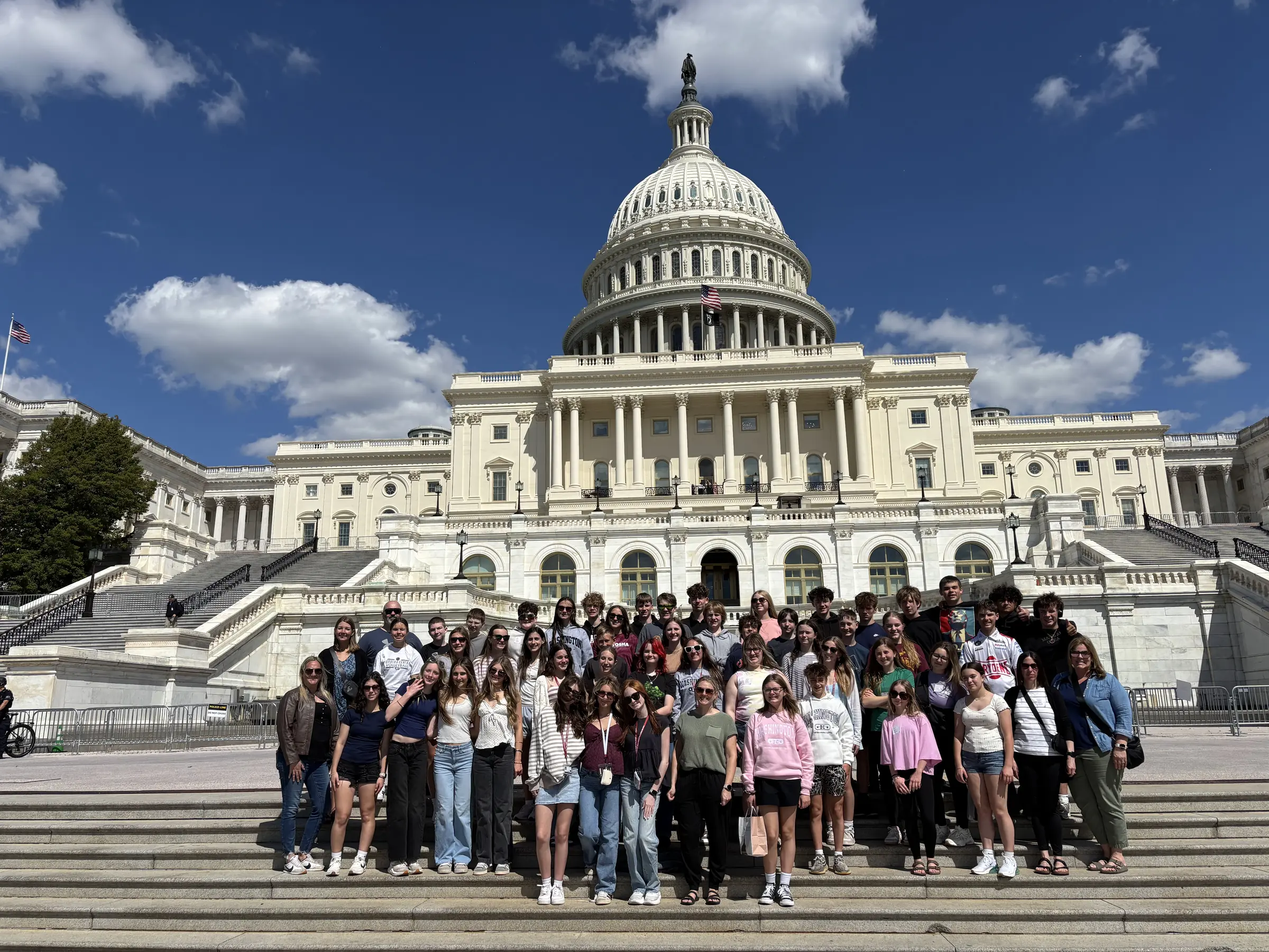
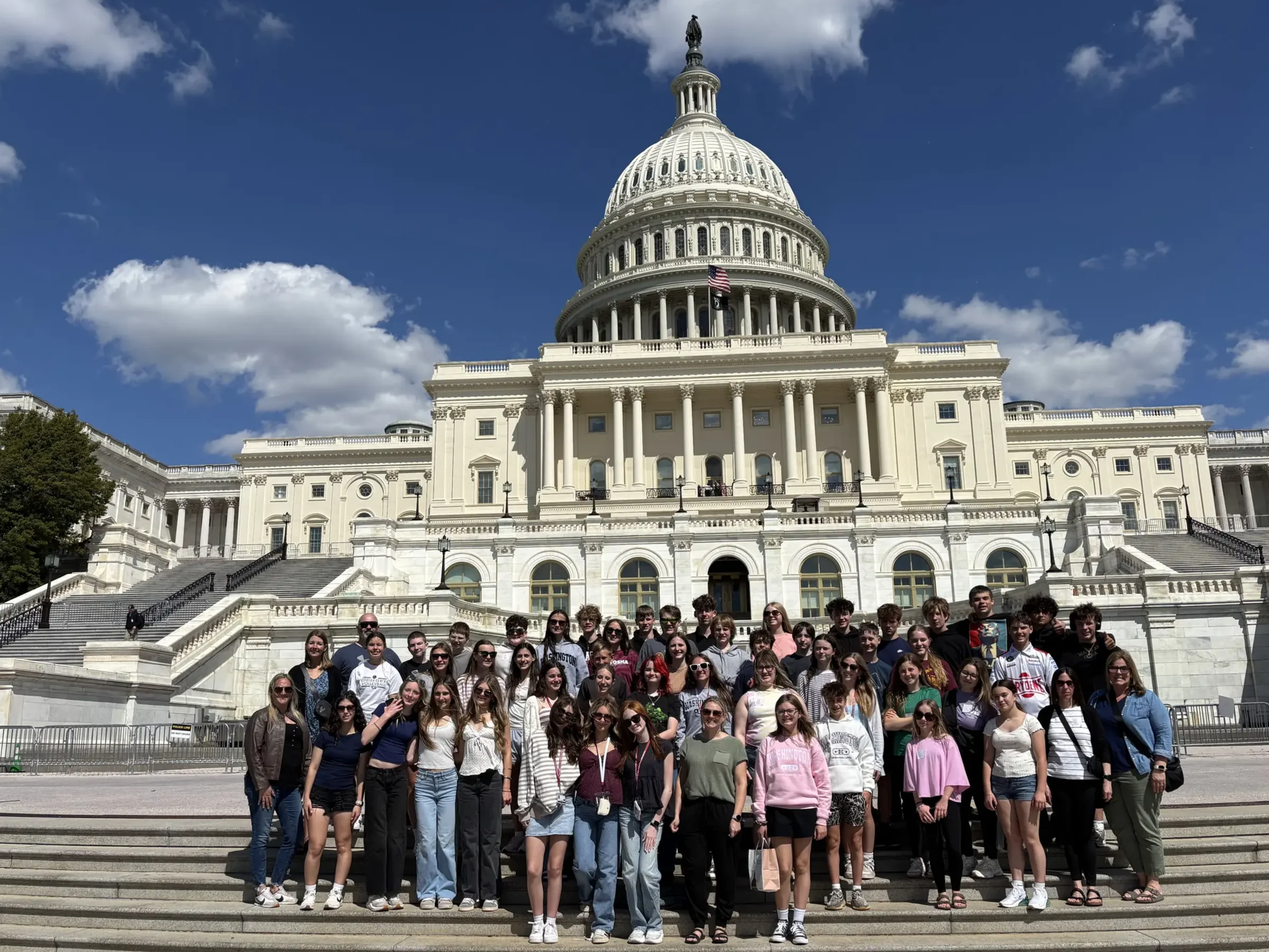
Fix buried mobile close button, oversized hero headline, bowed hero photos
Mobile menu had no way to close. The X was there all along -- rendered,
correctly shaped, dark brown -- but buried: .ileh-mobile is a SIBLING of
.ileh-bar inside <header>, so within that stacking context the fixed panel
(z-index 990, positioned) painted over the bar, which had no position or
z-index of its own. The wrap's z-index:1000 only ranks the header against the
page, not against its own children. The logo vanished too, for a different
reason -- it is inverted to pure white for the dark hero, and the menu backdrop
is cream.

Hero headline: the copy column is capped at 640px while the type rendered at
76px, so 'Educational Travel, Customized for You.' wrapped to FOUR lines and
stood 316px tall, crowding the header on short laptop windows. Capping the
type at 64px gives two lines at 133px and lifts header clearance from 61px to
136-152px, uniform across all three slides. Chose the type lever over widening
the column because widening pushes the amber text onto the bright side of the
photo -- what the existing comment there warns about.

Hero photos were not tilted, they were panorama/wide-angle distorted: the
Capitol balustrade bowed up through the centre, the Colosseum verticals
splayed. Rotation cannot fix a curve, so both got barrel correction (0.018 /
0.016) plus an 8% centre crop to drop the edge smear the correction leaves.
The NYC slide is a normal 4:3 frame whose upward convergence is natural for
[…]

diff --git a/app/globals.css b/app/globals.css
@@ -250,9 +250,18 @@ p { margin: 0; }
   font-family: var(--font-head);
 }
 .ileh-bar {
+  /* Must outrank .ileh-mobile, which is a SIBLING of this bar inside .ileh-wrap.
+     The wrap's own z-index:1000 ranks the whole header against the page, not its
+     children against each other — so without this the fixed mobile panel (z-index
+     990, positioned) painted straight over the bar and buried the close button.
+     The X was always rendered and correctly shaped; it was simply underneath the
+     menu it was meant to close (reported 2026-08-12: "no way to close out of it"). */
+  position: relative;
+  z-index: 1001;
   transition: background 0.4s var(--lm-ease), box-shadow 0.4s var(--lm-ease), padding 0.4s var(--lm-ease);
   background: transparent;
 }
+
 .ileh-wrap.is-scrolled .ileh-bar {
   background: rgba(255,255,255,0.96);
   -webkit-backdrop-filter: blur(14px);
@@ -391,6 +400,10 @@ p { margin: 0; }
 /* ── Logo recolor: white over hero, brand rust when scrolled / on light ── */
 .ileh-logo img { filter: brightness(0) invert(1); transition: filter 0.25s ease; }
 .ileh-wrap.is-scrolled .ileh-logo img { filter: none; }
+/* The mobile menu's backdrop is cream, so the white-over-hero logo vanished into
+   it — the header looked empty with the menu open. Must live here, after the
+   invert above, rather than beside the other header rules further up the file. */
+.ileh-wrap.is-menu-open .ileh-logo img { filter: none; }
 .ilef-logo { filter: brightness(0) invert(1); }
 
 /* ── Mobile mega subgroups ── */
@@ -1278,7 +1291,13 @@ select.ilm-input { appearance: none; -webkit-appearance: none; cursor: pointer;
   color: #fff;
   font-family: var(--font-head);
   font-weight: 700;
-  font-size: clamp(40px, 6.4vw, 76px);
+  /* Cap 64px, not 76px: at 76 the longest headline ("Educational Travel,
+     Customized for You.") could not fit "Educational Travel," on one line
+     inside the 640px copy column, so it wrapped to four lines and stood 316px
+     tall — oversized, and it crowded the header on short laptop screens.
+     64px fits two lines at 133px. Widening the column instead would have
+     pushed the amber text onto the bright side of the photo. */
+  font-size: clamp(40px, 6.4vw, 64px);
   line-height: 1.04;
   letter-spacing: -0.02em;
   text-shadow: 0 2px 40px rgba(0,0,0,0.45);
@@ -1286,8 +1305,13 @@ select.ilm-input { appearance: none; -webkit-appearance: none; cursor: pointer;
 }
 .lm-hero-accent { color: var(--lm-secondary); }
 /* Keep hero copy stacked on the left, inside the dark gradient (avoids amber
-   text landing on the bright right side of the photo). */
-.lm-hero-slide .ilm-hero-content { max-width: 520px; }
+   text landing on the bright right side of the photo).
+   640px, not 520px: at 520 the 76px headline could not fit "Educational" and
+   "Travel," on one line, so it wrapped to FOUR lines and stood 316px tall —
+   which read as oversized and crowded the header on short laptop screens
+   (reported 2026-08-12). 640px puts it back to two lines at 158px without
+   pushing the copy out of the dark side of the gradient. */
+.lm-hero-slide .ilm-hero-content { max-width: 640px; }
 .lm-hero-slide .ilm-hero-sub { max-width: 34ch; }
 .lm-hero-arrow {
   position: absolute; top: 50%; transform: translateY(-50%); z-index: 4;

diff --git a/components/Header.tsx b/components/Header.tsx
@@ -151,7 +151,7 @@ export default function Header() {
   }, [mobileOpen])
 
   return (
-    <header className={`ileh-wrap${scrolled ? ' is-scrolled' : ''}`}>
+    <header className={`ileh-wrap${scrolled ? ' is-scrolled' : ''}${mobileOpen ? ' is-menu-open' : ''}`}>
       <div className="lmh-utility">
         <div className="lmh-utility-inner">
           <div className="lmh-utility-contact">
